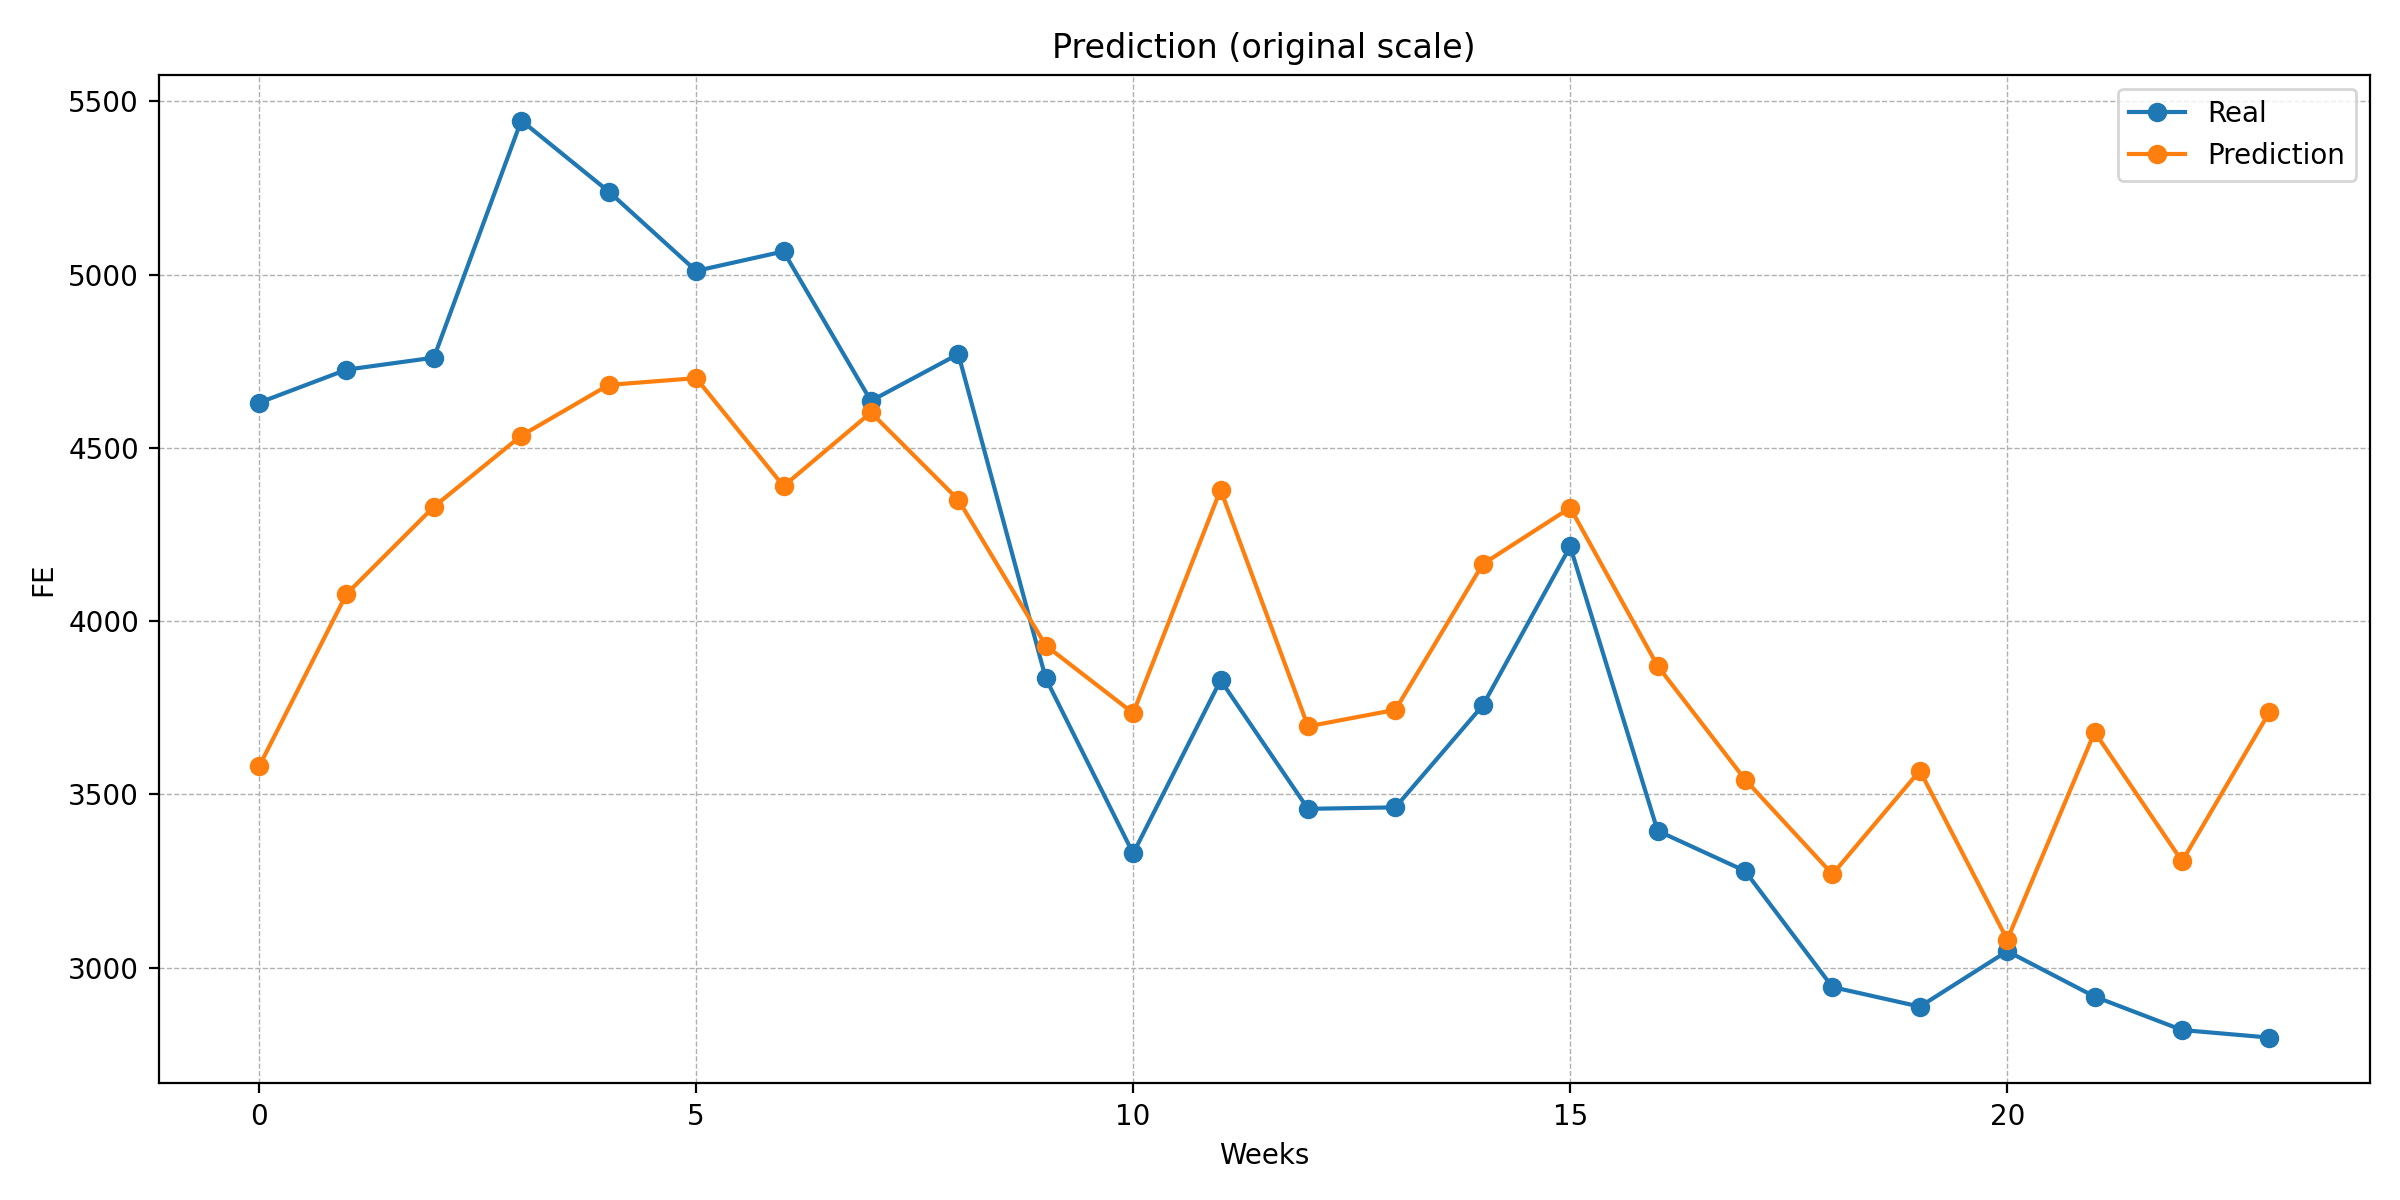
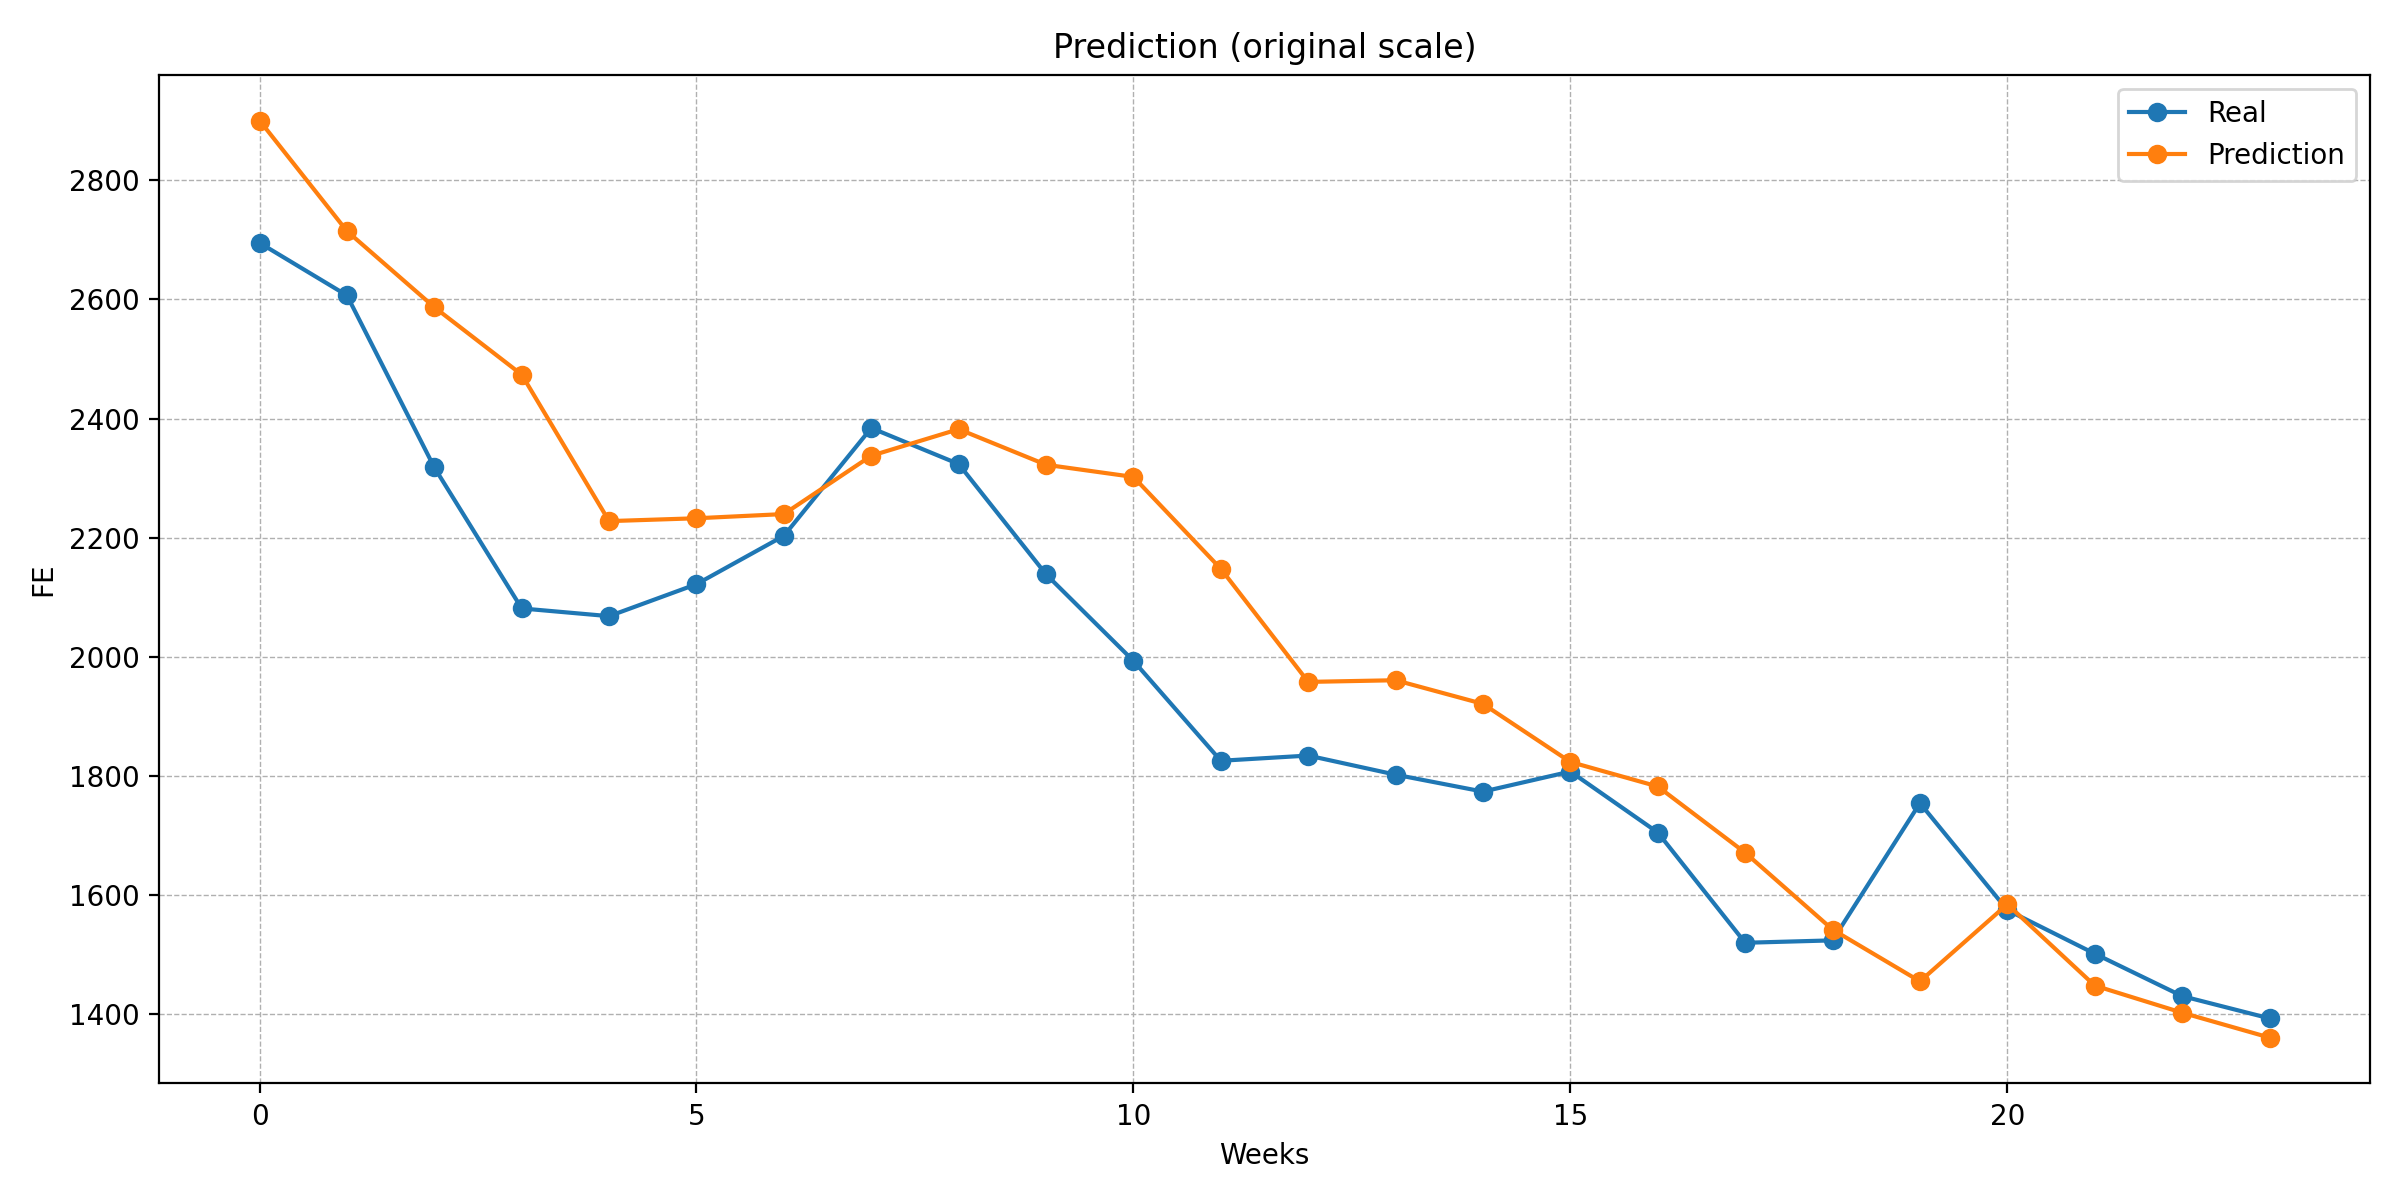
a
asdas

diff --git a/lime_transformers.py b/lime_transformers.py
@@ -11,16 +11,16 @@ from datetime import datetime
 from functions import error_metrics, run_transformer, get_attention_maps
 import os
 
+from lime.lime_tabular import LimeTabularExplainer
+
 torch.set_float32_matmul_precision("high")
 timestamp = datetime.now().strftime("%Y%m%d_%H%M%S")
 # Configurar dispositivo
 device = torch.device("cuda" if torch.cuda.is_available() else "cpu")
 
-
-
 # Load data
 df = pd.read_csv("weekly_chile_data.csv")
-df["FECHA"] = pd.to_datetime(df["FECHA"] )
+df["FECHA"] = pd.to_datetime(df["FECHA"])
 df = df.sort_values("FECHA")
 df = df.rename(columns=lambda x: x.replace(".", "_"))
 
@@ -55,8 +55,8 @@ train_cut = tmp["time_idx"].max() - test_size
 
 start = datetime.now()
 y_true, y_pred, list = run_transformer(df, target_col, window_size, test_size, batch_size, d_model,
-                                                            n_head, num_layers, epoch_number, lr,
-                                                            device, seed, optimizer_type='adam', weight_decay=1e-4)
+                                       n_head, num_layers, epoch_number, lr,
+                                       device, seed, optimizer_type='adam', weight_decay=1e-4)
 mae, mape, mse, rmse, r2 = error_metrics(y_true, y_pred)
 runtime = (datetime.now() - start).total_seconds()
 print("prediction errors")
@@ -65,20 +65,55 @@ print(f"MAE={mae:.3f}, MAPE={mape:.3f}, RMSE={rmse:.3f}, R2={r2:.3f}, Time={runt
 print(y_true)
 print(y_pred)
 
+
+
+
+
+
+#__________________________________
+
+#LIME
+
 model = list[0]
-sample = torch.tensor(list[1], dtype=torch.float32).to(device)
+X_test = list[1]
 
-attn_maps = get_attention_maps(model, sample)
-# ---- VISUALIZE ----
-import matplotlib.pyplot as plt
+# X_test: [N, T, F] → [N, T*F]
+N, T, F = X_test.shape
+X_lime = X_test.reshape(N, T * F)
 
-layer_idx = 0
-head_idx = 0
+# Optional: simple feature names
+feature_names = [f"t-{T - 1 - t}_f{j}" for t in range(T) for j in range(F)]
 
-attn = attn_maps[layer_idx]  # shape: [batch, n_heads, T, T]
-attn = attn[0, head_idx].numpy()  # pick first batch, first head
 
-plt.imshow(attn, aspect="auto")
-plt.title(f"Attention - Layer {layer_idx}, Head {head_idx}")
-plt.colorbar()
-plt.show()
+def predict_fn(flat_X):
+    # flat_X: [n_samples, T*F]
+    arr = flat_X.reshape(-1, T, F)
+    with torch.no_grad():
+        x_tensor = torch.tensor(arr, dtype=torch.float32).to(device)
+        preds = model(x_tensor).cpu().numpy().ravel()  # shape [n_samples]
+    return preds
+
+
+explainer = LimeTabularExplainer(
+    X_lime,
+    feature_names=feature_names,
+    mode="regression"
+)
+
+idx = -1  # or any 0..N-1
+x0 = X_lime[idx]
+
+exp = explainer.explain_instance(
+    x0,
+    predict_fn,
+    num_features=15  # top 15 "flattened" features
+)
+
+exp.show_in_notebook()  # if using notebook
+# or in console:
+print(exp.as_list())
+
+
+
+
+

diff --git a/functions.py b/functions.py
@@ -428,7 +428,7 @@ def run_transformer(df, target_col, window_size, test_size, batch_size, d_model,
     preds = preds_scaled * (target_max - target_min + 1e-8) + target_min
     real = np.array(y_test) * (target_max - target_min + 1e-8) + target_min
 
-    return real, preds
+    return real, preds, [model, X_test]
 
 
 def run_lstm(df, target_col, window_size, test_size, batch_size, hidden_size, num_layers, epoch_number, lr, device, seed):
@@ -664,3 +664,37 @@ def run_dnn(df, target_col, window_size, test_size, batch_size, epoch_number, lr
     real = np.array(y_test)
 
     return real, preds
+
+
+def get_attention_maps(model, sample):
+    """
+    sample: tensor of shape [B, T, input_size]
+    returns: list of attn_maps, one per layer, each [B, n_heads, T, T]
+    """
+    attn_maps = []
+
+    # same prep as in forward()
+    x = model.input_linear(sample)
+    x = x + model.positional_encoding[:, :x.size(1), :]
+
+    # manually go through encoder layers and capture attention
+    for layer in model.transformer.layers:
+        # self-attention with need_weights=True
+        attn_output, attn_weights = layer.self_attn(
+            x, x, x,
+            attn_mask=None,
+            key_padding_mask=None,
+            need_weights=True,
+            average_attn_weights=False,
+        )
+        attn_maps.append(attn_weights.detach().cpu())  # [B, n_heads, T, T]
+
+        # rest of TransformerEncoderLayer.forward (PyTorch)
+        x = x + layer.dropout1(attn_output)
+        x = layer.norm1(x)
+
+        ff = layer.linear2(layer.dropout(layer.activation(layer.linear1(x))))
+        x = x + layer.dropout2(ff)
+        x = layer.norm2(x)
+
+    return attn_maps

diff --git a/lasso.py b/lasso.py
@@ -7,8 +7,8 @@ from sklearn.linear_model import LassoCV
 from functions import error_metrics
 
 # Load and prepare data
-df = pd.read_csv("chile_data.csv")
-df["FECHA"] = pd.to_datetime(df["FECHA"] + "-5", format="%Y-%W-%w")
+df = pd.read_csv("weekly_chile_data.csv")
+df["FECHA"] = pd.to_datetime(df["FECHA"] )
 df = df.sort_values("FECHA")
 
 # Parameters
@@ -64,7 +64,7 @@ preds_scaled = model.predict(X_test)
 # Evaluation
 
 
-# mae, mape, mse, rmse, r2 = error_metrics(y_test, preds_scaled)
+mae, mape, mse, rmse, r2 = error_metrics(y_test, preds_scaled)
 
 
 

diff --git a/tuning_transformers.py b/tuning_transformers.py
@@ -53,7 +53,7 @@ ax = AxClient()
 ax.create_experiment(
     name="transformer_experiment",
     parameters=[
-        {"name": "window_size", "type": "range", "bounds": [42, 43], "value_type": "int"},
+        {"name": "window_size", "type": "choice", "values": [8,12,24], "value_type": "int"},
         {"name": "d_model", "type": "choice", "values": [256, 512, 1024]},
         {"name": "n_head", "type": "choice", "values": [8, 16,32]},
         {"name": "num_layers", "type": "range", "bounds": [1, 10], "value_type": "int"},

diff --git a/LSTM.py b/LSTM.py
@@ -24,8 +24,8 @@ torch.backends.cudnn.deterministic = True
 torch.backends.cudnn.benchmark = False
 
 # Leer y preparar datos
-df = pd.read_csv("chile_data.csv")
-df["FECHA"] = pd.to_datetime(df["FECHA"] + "-5", format="%Y-%W-%w")
+df = pd.read_csv("weekly_chile_data.csv")
+df["FECHA"] = pd.to_datetime(df["FECHA"])
 df = df.sort_values('FECHA')
 
 # Parámetros
